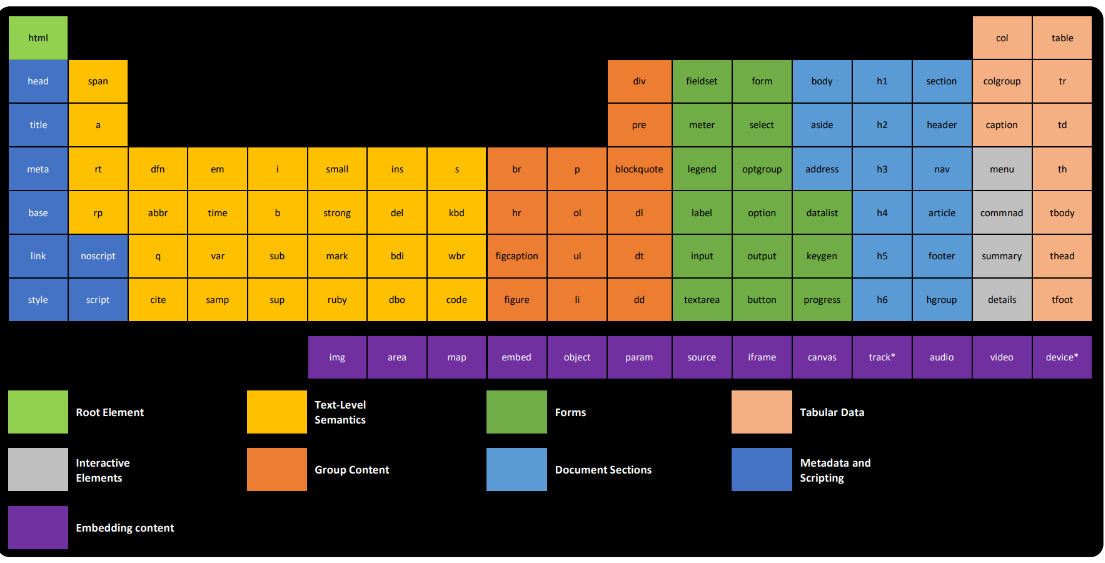
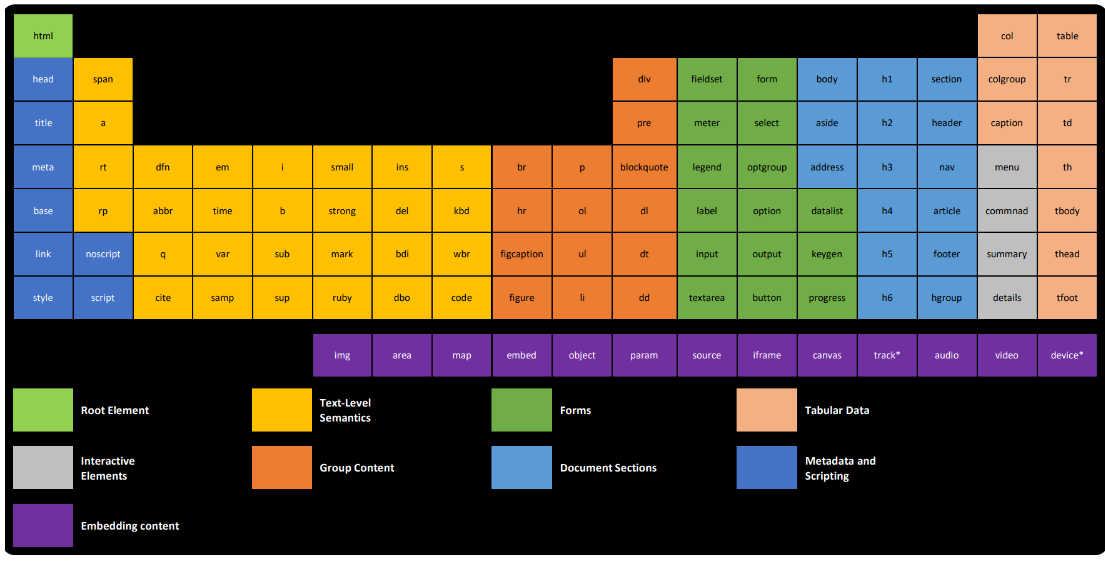
cp1 correção

Changed region(s): [[0.0, 0.0, 1.0, 0.9964], [0.0615, 0.6945, 0.1538, 0.7549]]

diff --git a/1-semestre/CP1/correcao-cp1/index.html b/1-semestre/CP1/correcao-cp1/index.html
@@ -1,0 +1,230 @@
+<!DOCTYPE html>
+<html lang="en">
+<head>
+    <meta charset="UTF-8">
+    <meta name="viewport" content="width=device-width, initial-scale=1.0">
+    <title>Document</title>
+    <link rel="stylesheet" href="style.css">
+</head>
+<body>
+    <div id="wrapper">
+        <div class="linhas">
+            <div class="verde-unico"><p>html</p></div>
+            <div class="vazio"></div>
+            <div class="vazio"></div>
+            <div class="vazio"></div>
+            <div class="vazio"></div>
+            <div class="vazio"></div>
+            <div class="vazio"></div>
+            <div class="vazio"></div>
+            <div class="vazio"></div>
+            <div class="vazio"></div>
+            <div class="vazio"></div>
+            <div class="vazio"></div>
+            <div class="vazio"></div>
+            <div class="vazio"></div>
+            <div class="vazio"></div>
+            <div class="vazio"></div>
+            <div class="bege"><p>col</p></div>
+            <div class="bege"><p>table</p></div>
+        </div>
+        <div class="linhas">
+            <div class="azul-claro"><p class="claro">head</p></div>
+            <div class="amarelo"><p>span</p></div>
+            <div class="vazio"></div>
+            <div class="vazio"></div>
+            <div class="vazio"></div>
+            <div class="vazio"></div>
+            <div class="vazio"></div>
+            <div class="vazio"></div>
+            <div class="vazio"></div>
+            <div class="vazio"></div>
+            <div class="laranja"><p>div</p></div>
+            <div class="verde"><p>fieldset</p></div>
+            <div class="verde"><p>form</p></div>
+            <div class="azul-escuro"><p>body</p></div>
+            <div class="azul-escuro"><p>h1</p></div>
+            <div class="azul-escuro"><p>section</p></div>
+            <div class="bege"><p>colgroup</p></div>
+            <div class="bege"><p>tr</p></div>
+        </div>
+        <div class="linhas">
+            <div class="azul-claro"><p class="claro">title</p></div>
+            <div class="amarelo"><p>a</p></div>
+            <div class="vazio"></div>
+            <div class="vazio"></div>
+            <div class="vazio"></div>
+            <div class="vazio"></div>
+            <div class="vazio"></div>
+            <div class="vazio"></div>
+            <div class="vazio"></div>
+            <div class="vazio"></div>
+            <div class="laranja"><p>pre</p></div>
+            <div class="verde"><p>meter</p></div>
+            <div class="verde"><p>select</p></div>
+            <div class="azul-escuro"><p>aside</p></div>
+            <div class="azul-escuro"><p>h2</p></div>
+            <div class="azul-escuro"><p>header</p></div>
+            <div class="bege"><p>caption</p></div>
+            <div class="bege"><p>td</p></div>
+        </div>
+        <div class="linhas">
+            <div class="azul-claro"><p class="claro">meta</p></div>
+            <div class="amarelo"><p>rt</p></div>
+            <div class="amarelo"><p>dfn</p></div>
+            <div class="amarelo"><p>em</p></div>
+            <div class="amarelo"><p>i</p></div>
+            <div class="amarelo"><p>small</p></div>
+            <div class="amarelo"><p>ins</p></div>
+            <div class="amarelo"><p>s</p></div>
+            <div class="laranja"><p>br</p></div>
+            <div class="laranja"><p>p</p></div>
+            <div class="laranja"><p>blackquote</p></div>
+            <div class="verde"><p>legend</p></div>
+            <div class="verde"><p>optgroup</p></div>
+            <div class="azul-escuro"><p>adress</p></div>
+            <div class="azul-escuro"><p>h3</p></div>
+            <div class="azul-escuro"><p>nav</p></div>
+            <div class="cinza"><p>menu</p></div>
+            <div class="bege"><p>th</p></div>
+        </div>
+        <div class="linhas">
+            <div class="azul-claro"><p class="claro">base</p></div>
+            <div class="amarelo"><p>rp</p></div>
+            <div class="amarelo"><p>abbr</p></div>
+            <div class="amarelo"><p>time</p></div>
+            <div class="amarelo"><p>b</p></div>
+            <div class="amarelo"><p>strong</p></div>
+            <div class="amarelo"><p>del</p></div>
+            <div class="amarelo"><p>kbd</p></div>
+            <div class="laranja"><p>hr</p></div>
+            <div class="laranja"><p>ol</p></div>
+            <div class="laranja"><p>dl</p></div>
+            <div class="verde"><p>label</p></div>
+            <div class="verde"><p>option</p></div>
+            <div class="verde"><p>datalist</p></div>
+            <div class="azul-escuro"><p>h4</p></div>
+            <div class="azul-escuro"><p>article</p></div>
+            <div class="cinza"><p>commnad</p></div>
+            <div class="bege"><p>tbody</p></div>
+        </div>
+        <div class="linhas">
+            <div class="azul-claro"><p class="claro">link</p></div>
+            <div class="azul-claro"><p class="claro">noscript</p></div>
+            <div class="amarelo"><p>q</p></div>
+            <div class="amarelo"><p>var</p></div>
+            <div class="amarelo"><p>sub</p></div>
+            <div class="amarelo"><p>mark</p></div>
+            <div class="amarelo"><p>bdl</p></div>
+            <div class="amarelo"><p>wbr</p></div>
+            <div class="laranja"><p>figcaption</p></div>
+            <div class="laranja"><p>ul</p></div>
+            <div class="laranja"><p>dt</p></div>
+            <div class="verde"><p>input</p></div>
+            <div class="verde"><p>output</p></div>
+            <div class="verde"><p>keygen</p></div>
+            <div class="azul-escuro"><p>h5</p></div>
+            <div class="azul-escuro"><p>footer</p></div>
+            <div class="cinza"><p>summary</p></div>
+            <div class="bege"><p>thead</p></div>
+        </div>
+        <div class="linhas">
+            <div class="azul-claro"><p class="claro">style</p></div>
+            <div class="azul-claro"><p class="claro">script</p></div>
+            <div class="amarelo"><p>cite</p></div>
+            <div class="amarelo"><p>semp</p></div>
+            <div class="amarelo"><p>sup</p></div>
+            <div class="amarelo"><p>ruby</p></div>
+            <div class="amarelo"><p>dbo</p></div>
+            <div class="amarelo"><p>code</p></div>
+            <div class="laranja"><p>figure</p></div>
+            <div class="laranja"><p>li</p></div>
+            <div class="laranja"><p>dd</p></div>
+            <div class="verde"><p>textarea</p></div>
+            <div class="verde"><p>button</p></div>
+            <div class="verde"><p>progress</p></div>
+            <div class="azul-escuro"><p>h6</p></div>
+            <div class="azul-escuro"><p>hgroup</p></div>
+            <div class="cinza"><p>details</p></div>
+            <div class="bege"><p>tfoot</p></div>
+        </div>
+        <!--QUADRADOS ROXO-->
+        <div class="linhas linhas__roxas">
+            <div class="vazio"></div>
+            <div class="vazio"></div>
+            <div class="vazio"></div>
+            <div class="vazio"></div>
+            <div class="vazio"></div>
+            <div class="roxo"><p class="claro">img</p></div>
+            <div class="roxo"><p class="claro">area</p></div>
+            <div class="roxo"><p class="claro">map</p></div>
+            <div class="roxo"><p class="claro">embed</p></div>
+            <div class="roxo"><p class="claro">object</p></div>
+            <div class="roxo"><p class="claro">param</p></div>
+            <div class="roxo"><p class="claro">source</p></div>
+            <div class="roxo"><p class="claro">iframe</p></div>
+            <div class="roxo"><p class="claro">canvas</p></div>
+            <div class="roxo"><p class="claro">track*</p></div>
+            <div class="roxo"><p class="claro">audio</p></div>
+            <div class="roxo"><p class="claro">video</p></div>
+            <div class="roxo"><p class="claro">devide*</p></div>
+        </div>
+        <!--LEGENDAS-->
+        <div class="div__legendas"> <!--tipo warapper das legendas-->
+            <div class="linhas legenda__linhas"> <!--div linhas legenda__linhas-->
+ 
+                <div class="verde-unico"></div>
+                    <div class="legenda">
+                        <p class="posicionamento__legenda">Root Element</p>
+                    </div>
+ 
+                <div class="amarelo"></div>
+                    <div class="legenda">
+                        <p class="posicionamento__legenda espacamento__legenda">Text-Level Semantics</p>
+                    </div>
+
+                <div class="verde"></div>
+                    <div class="legenda">
+                        <p class="posicionamento__legenda">Forms</p>
+                    </div>
+
+                <div class="bege"></div>
+                    <div class="legenda">
+                        <p class="posicionamento__legenda">Tabular Data</p>
+                    </div>
+            </div> <!--div linhas legenda__linhas-->
+<!--------------------------------------------------------------------------------->
+            <div class="linhas legenda__linhas"> <!--div linhas legenda__linhas-->
+                <!---->
+                <div class="cinza"></div>
+                    <div class="legenda">
+                        <p class="espacamento__legenda posicionamento__legenda">Interactive Elements</p>
+                    </div>
+
+                <div class="laranja"></div>
+                    <div class="legenda">
+                        <p class="posicionamento__legenda">Group Content</p>
+                    </div>
+
+                <div class="azul-claro"></div>
+                    <div class="legenda">
+                        <p class="espacamento__legenda posicionamento__legenda">Documento Sections</p>
+                    </div>
+
+                <div class="azul-escuro"></div>
+                    <div class="legenda">
+                        <p class="espacamento__legenda posicionamento__legenda">Metadata and Scripting</p>
+                    </div>
+            </div> <!--div linhas legenda__linhas-->
+<!-------------------------------------------------------------------------------->
+            <div class="linhas legenda__linhas"> <!--div linhas legenda__linhas-->
+
+                <div class="roxo"></div>
+                    <div class="legenda">
+                        <p class="espacamento__legenda posicionamento__legenda">Embedding Content</p>
+                    </div>
+            </div> <!--div linhas legenda__linhas-->
+        </div> <!--div div__legendas-->
+    </div> <!--div wrapper-->
+</body>
+</html>

diff --git a/1-semestre/CP1/correcao-cp1/style.css b/1-semestre/CP1/correcao-cp1/style.css
@@ -1,0 +1,128 @@
+:root {
+    --preto-background: #000000;
+    --branco-principal: #ffffff;
+    --verde-unico: #9aff5f;
+    --azul-escuro: #1054a7;
+    --amarelo: #f7d61b;
+    --laranja: #d3602b;
+    --verde: #36b31d;
+    --azul-claro: #5e94d6;
+    --cinza: #9e9e9e;
+    --bege: #ecc39c;
+    --roxo: #6f2194;
+    --transparente: transparent;
+}
+
+#wrapper {
+    padding: 10px;
+    width: 1300px;
+    height: 872px;
+    background-color: var(--preto-background);
+    border-radius: 4px;
+}
+
+body {
+    font-family: arial;
+}
+
+.linhas {
+    background-color: var(--preto-background);
+    height: 70px;
+    width: 100%;
+}
+
+.linhas__roxas {
+    margin-top: 20px;
+}
+
+.legenda__linhas {
+    margin-top: 20px;
+}
+
+div {
+    width: 70px;
+    height: 70px;
+    background-color: #f3f;
+    border-radius: 2px;
+    margin-left: 2px;
+    float: left;
+    margin-bottom: 2px;
+    line-height: 70px;
+}
+
+.div__legendas {
+    width: 800px;
+    height: 300px;
+    background-color: var(--transparente);
+}
+
+/*cores dos quadrados*/
+.verde-unico {
+    background-color: var(--verde-unico);
+}
+
+.vazio {
+    background-color: var(--preto-background);
+}
+
+.bege {
+    background-color: var(--bege);
+}
+
+.azul-escuro {
+    background-color: var(--azul-escuro);
+}
+
+.azul-claro {
+    background-color: var(--azul-claro);
+}
+
+.amarelo {
+    background-color: var(--amarelo);
+}
+
+.laranja {
+    background-color: var(--laranja);
+}
+
+.verde {
+    background-color: var(--verde);
+}
+
+.cinza {
+    background-color: var(--cinza);
+}
+
+.roxo {
+    background-color: var(--roxo);
+}
+
+/*texto da legenda*/
+.legenda {
+    width: 115px;
+    height: 140px;
+    color: var(--branco-principal);
+    text-align: left;
+    background-color: var(--transparente);
+}
+
+p {
+    text-align: center;
+    margin-top: 0px;
+    font-size: 13px;
+    padding-left: 10px;
+}
+
+/*parágrafo de cor clara*/
+.claro { 
+    color: var(--branco-principal);
+}
+
+.espacamento__legenda {
+    margin-top: 15px;
+    line-height: 1.5;
+}
+
+.posicionamento__legenda {
+    text-align: left;
+}
